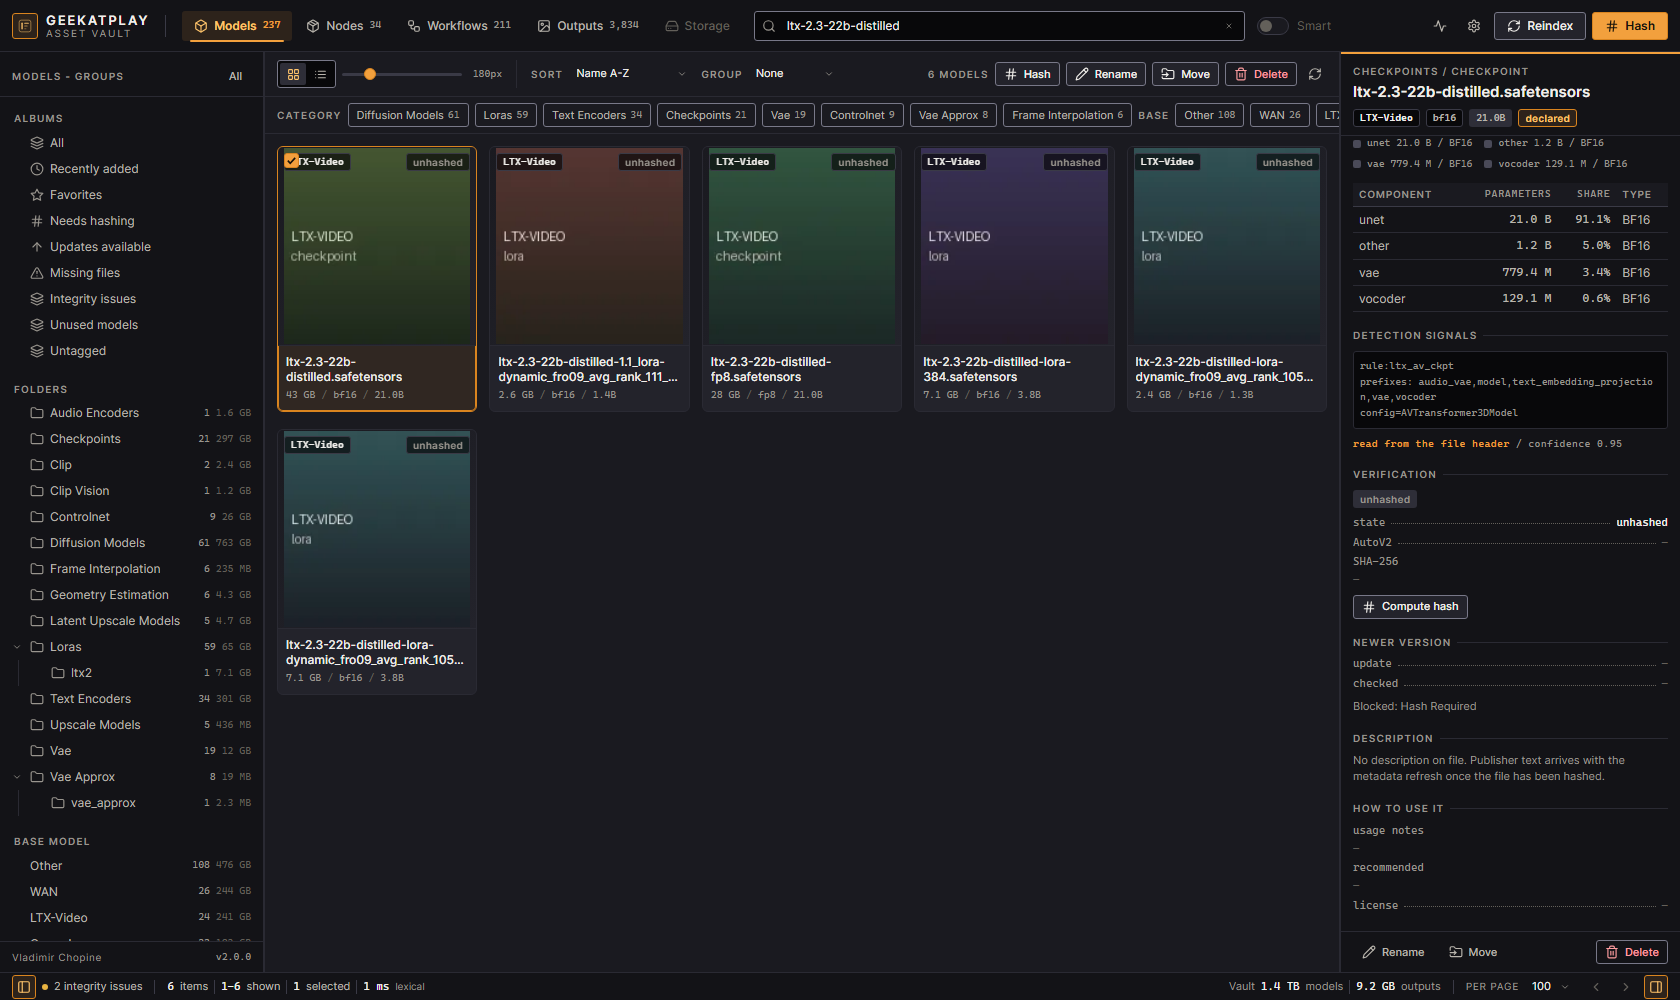
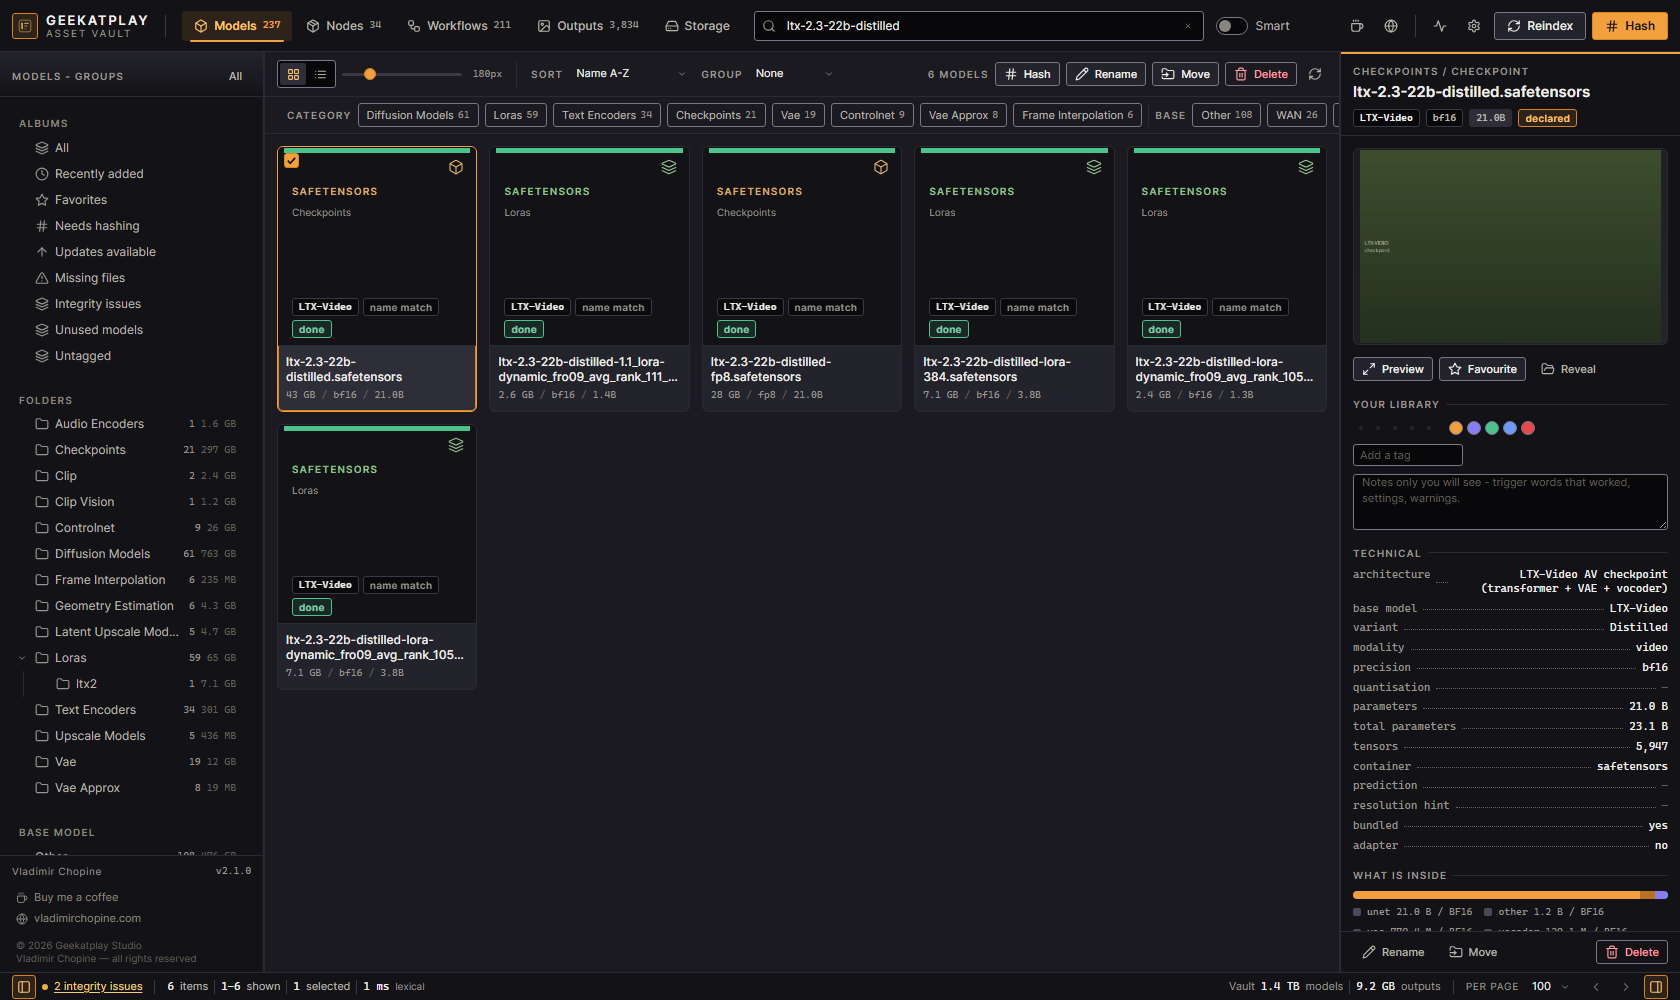
Refresh all 12 screenshots for the current UI, sync docs with the new features
Every screenshot in docs/screenshots was re-captured against the live app -
same twelve files, same states as before, now showing the redesigned asset
cards, the Your library ratings/tags panel, the reworked Activity audit view,
and the v2.1.0 build. None were added, removed, or renamed.

README's quick start now covers the skippable wizard, the Settings banner,
mapping extra folders from any drive, and first-scan duration honesty.
API_CONTRACT documents the three-state comfyui_root check, the new
scan_roots health check, and portable-parent path resolution on config
save and validate-path; USER_GUIDE gains the sixth Settings tab (Activity),
the scan-folder manager, and the skip/banner flow; INSTALL and
TROUBLESHOOTING now describe the portable-parent acceptance and the
distinct not-configured vs unreachable states.

diff --git a/docs/USER_GUIDE.md b/docs/USER_GUIDE.md
@@ -6,6 +6,11 @@ Everything below describes the app running against a real ComfyUI 0.33.0 install
 34 node packages, 1,866 node classes, 211 workflows and 3,834 outputs. The numbers you see are
 your own.
 
+On first launch a short setup wizard points the app at your ComfyUI folder (INSTALL §4). It can
+be skipped with **Set up later** — the app then shows a persistent banner (the same banner used
+when the configured folder becomes unreachable or a scan folder goes offline) with a button that
+opens Settings → Location.
+
 ---
 
 ## 1. The shell
@@ -410,7 +415,12 @@ where useful, an action.
 Checks: ComfyUI root reachable · database mode and size · embedding model present · Civitai
 enabled · Ollama reachable · file-integrity failures (with the offending files named) · partial
 downloads left behind (`.crdownload`, `.part`) · node packages whose git remote does not look like
-the package name · thumbnail cache size against its cap.
+the package name · extra scan folders reachable (`scan_roots` warns when one or more extra scan
+folders are offline; their mappings and indexed rows are kept, never dropped) · thumbnail cache
+size against its cap.
+
+The ComfyUI-root check distinguishes "not configured" (no folder set yet) from "unreachable"
+(a folder is set but cannot be found — drive offline?).
 
 Overall status is the worst individual check, so "error" often just means one unreadable file.
 Open the drawer and read the line, do not guess.
@@ -421,15 +431,16 @@ The same report is available at `GET /api/v1/system/health`.
 
 ## 12. Settings
 
-Four sections.
+Six sections.
 
 | Section | Contains |
 |---|---|
-| **Location** | ComfyUI path with live validation, the configured roots, `extra_model_paths.yaml` contents, Save path · Save and reindex now · Run the setup wizard |
+| **Location** | ComfyUI path with live validation (the field also accepts a portable build's parent folder and finds the install inside it), the configured roots, the scan-folder manager — add a models folder (with a required category) or a workflows folder from any drive, remove hand-added ones; offline drives show as offline and are never dropped — `extra_model_paths.yaml` contents, Save path · Save and reindex now · Run the setup wizard |
 | **Search** | Smart search enable/rebuild and its status, match strictness, Civitai matching, the outbound-lookups master switch, local text generation with a Test button |
 | **Updates** | The installed version, the newest published release, what changed in it, Download, and the two update preferences |
 | **Jobs** | Reindex on startup when files changed, watch folders, also read `extra_model_paths.yaml.hold`, default delete mode, trash retention |
 | **Storage** | Thumbnail cache size and Trim now, the trash list with Restore and Empty |
+| **Activity** | The append-only MCP audit log — every assistant mutation with its arguments, items and outcome (§13) |
 
 **Allow outbound lookups at all** is the master switch. With it off, nothing reaches the network,
 regardless of the other toggles.

diff --git a/docs/API_CONTRACT.md b/docs/API_CONTRACT.md
@@ -199,6 +199,7 @@ Two mechanisms hold that, neither of which asks a mutation endpoint to remember 
 ### `PATCH /api/v1/system/config`
 Body: any subset of the writable keys above. `200` returns the full config.
 Changing `comfyui_path` re-resolves roots and returns `"roots_changed": true`; it does **not** auto-start a scan.
+A `comfyui_path` that points at a portable build's parent folder (e.g. a drive root holding `ComfyUI` beside `python_embeded`) is resolved to the install inside it — the **resolved child** is what gets saved, not the parent you typed.
 Errors: `VALIDATION_ERROR`, `PATH_INVALID`, `PATH_NOT_ALLOWED`.
 
 ### `POST /api/v1/system/validate-path`
@@ -216,6 +217,7 @@ Body `{"path":"C:\\ComfyUI"}` — the wizard's live preview.
 ```
 `preview` is a bounded walk (hard cap 60,000 entries / 4 s) — cheap enough for a live wizard field (measured full walk ≈ 0.4 s).
 `valid:false` still returns `200` with `reason` — this is a validation preview, not an error.
+A path at a portable build's parent folder (e.g. a drive root holding `ComfyUI` beside `python_embeded`) is resolved to the install inside it: `path`/`normalized` report the resolved directory, and `warnings` is prepended with `"Found the ComfyUI install inside that folder: <path>"`.
 
 ### `POST /api/v1/system/wizard/complete`
 Body:
@@ -261,9 +263,12 @@ Body:
      "items":[{"path":"C:\\ComfyUI\\models\\checkpoints\\Unconfirmed 46066.crdownload"}]},
     {"id":"suspect_remotes","status":"warn","count":1,
      "items":[{"package":"was-ns","repo_url":"https://github.com/Comfy-Org/ComfyUI"}]},
+    {"id":"scan_roots","status":"warn","message":"1 scan root offline: E:\\extra_models","count":1},
     {"id":"thumb_cache","status":"ok","message":"412 MB / 2048 MB"}
   ] }
 ```
+`scan_roots` is `warn` when one or more configured scan roots are offline — the message counts them and names up to three paths, and `count` carries the number — and `ok` otherwise (`"N root(s), all reachable"`).
+`comfyui_root` emits three states: `error` with `"No ComfyUI folder is configured. Set it in Settings -> Location."` when unset; `error` with `"The configured folder is not reachable (drive offline?): <path>"` when set but missing; `ok` with the path otherwise.
 
 ### `GET /api/v1/system/roots` · `POST /api/v1/system/roots` · `DELETE /api/v1/system/roots/{id}`
 List / add / remove extra scan roots (`kind` ∈ `extra_models`, `extra_workflows`). `POST` body `{"path": "...", "kind": "...", "label": "...", "category": "..."}` — `category` is required for `kind: extra_models` and must be one of the known model category names (`checkpoints`, `loras`, …); the folder may live on any drive. `DELETE` removes roots added by hand (`source: manual`); roots that come from `extra_model_paths.yaml` are managed in that file. An offline root stays configured and is reported `available: false`, never dropped.

diff --git a/docs/INSTALL.md b/docs/INSTALL.md
@@ -132,12 +132,15 @@ Both talk to the same engine and the same database. The interactive API referenc
 
 ## 4. First launch
 
-The first time the interface loads it shows a short wizard.
+The first time the interface loads it shows a short wizard. It is skippable — **Set up later**
+closes it, and the app shows a persistent banner with a button that opens Settings → **Location**
+until a folder is configured.
 
 1. **Point it at ComfyUI.** Type or paste the installation folder — the one that contains
-   `models\`, `custom_nodes\` and `output\`. It is validated live: the wizard tells you whether
-   the folder exists, whether it looks like a ComfyUI install, and which sub-folders it found,
-   *before* you can save.
+   `models\`, `custom_nodes\` and `output\`. A portable build's parent folder (the drive root
+   beside `python_embeded`) also works — the install inside is found automatically. It is
+   validated live: the wizard tells you whether the folder exists, whether it looks like a
+   ComfyUI install, and which sub-folders it found, *before* you can save.
 2. **Confirm.** Extra roots declared in `extra_model_paths.yaml` are picked up automatically.
    `extra_model_paths.yaml.hold` is ignored unless you turn that on in Settings.
 3. **The first scan runs.** On the reference install a cold full scan takes **13.8–17.4 seconds**
@@ -150,7 +153,8 @@ safetensors/GGUF headers and filesystem metadata.
 ### Changing the ComfyUI folder later
 
 Settings → **Location**. The same live validation applies, and you are offered a re-index
-immediately. Existing rows for the old folder are **retained, not deleted** — the old root is
+immediately. The tab also has a scan-folder manager for extra model and workflow folders from
+any drive. Existing rows for the old folder are **retained, not deleted** — the old root is
 marked retired, its models, workflows and outputs keep their ratings, tags, notes and album
 membership, and the missing-file sweep skips them so nothing is flagged just because a drive was
 unplugged. Retired roots are read-only: rename, move and delete are refused for them. Remove that

diff --git a/docs/TROUBLESHOOTING.md b/docs/TROUBLESHOOTING.md
@@ -81,11 +81,15 @@ once `npm run build` has been run.
 ## The ComfyUI path is wrong, or points at nothing
 
 Symptoms: counts are zero, thumbnails do not render, every rename/move/delete is refused, or the
-health drawer reports `comfyui_root` as an error.
+health drawer reports `comfyui_root` as an error. The error message distinguishes the two cases:
+"No ComfyUI folder is configured" means nothing has been set yet, while "The configured folder is
+not reachable (drive offline?)" means a folder is set but cannot be found.
 
 Fix it in **Settings → Location**. The field validates live — it tells you whether the folder
 exists, whether it looks like a ComfyUI install, and which sub-folders it found, before you can
-save. Point it at the folder that contains `models\`, `custom_nodes\` and `output\`.
+save. Point it at the folder that contains `models\`, `custom_nodes\` and `output\`. Pointing at
+a portable build's parent folder (the drive root beside `python_embeded`) now works too — the
+install inside is found automatically.
 
 Every consumer picks the new path up **without a restart**: the indexer, the file-operation root
 guard, thumbnails, search and the MCP server. Re-index when offered.
@@ -301,7 +305,8 @@ The top-level `status` is the **worst** individual check, so a single unreadable
 
 | Check | `warn` / `error` means |
 |---|---|
-| `comfyui_root` | The configured folder is unreachable. Fix the path. |
+| `comfyui_root` | Either no folder is configured yet, or the configured folder is unreachable — the message says which. Fix the path. |
+| `scan_roots` | One or more extra scan folders are offline. The mapping and indexed rows are kept — reattach the drive, or remove the folder in Settings → Location. |
 | `database` | Journal mode and size. `ok` reads like `WAL, 33.4 MB`. |
 | `embeddings` | Smart search is off or its model files are absent. Expected until you enable it. |
 | `civitai` | Online enrichment disabled. Expected by default. |

diff --git a/README.md b/README.md
@@ -305,6 +305,12 @@ cleanly.
 On first launch a short wizard asks where ComfyUI is installed, validates the folder live as you
 type, and runs the first scan. On a portable build you can point at the folder that holds
 `ComfyUI` (the drive root, next to `python_embeded`) — the install inside it is found for you.
+The wizard is skippable (**Set up later**): the app opens without a configured folder and shows
+a banner that links straight to **Settings → Location**, where you can also map **extra model
+or workflow folders from any drive**. An unplugged drive shows as *offline* until it returns —
+its mapping and its indexed rows are never deleted. The first scan of a very large library, or
+one on a slow or network drive, can take a while; it runs in the background, and later scans
+only touch what changed.
 
 Full instructions → **[docs/INSTALL.md](docs/INSTALL.md)**
 Day-to-day use → **[docs/USER_GUIDE.md](docs/USER_GUIDE.md)**
